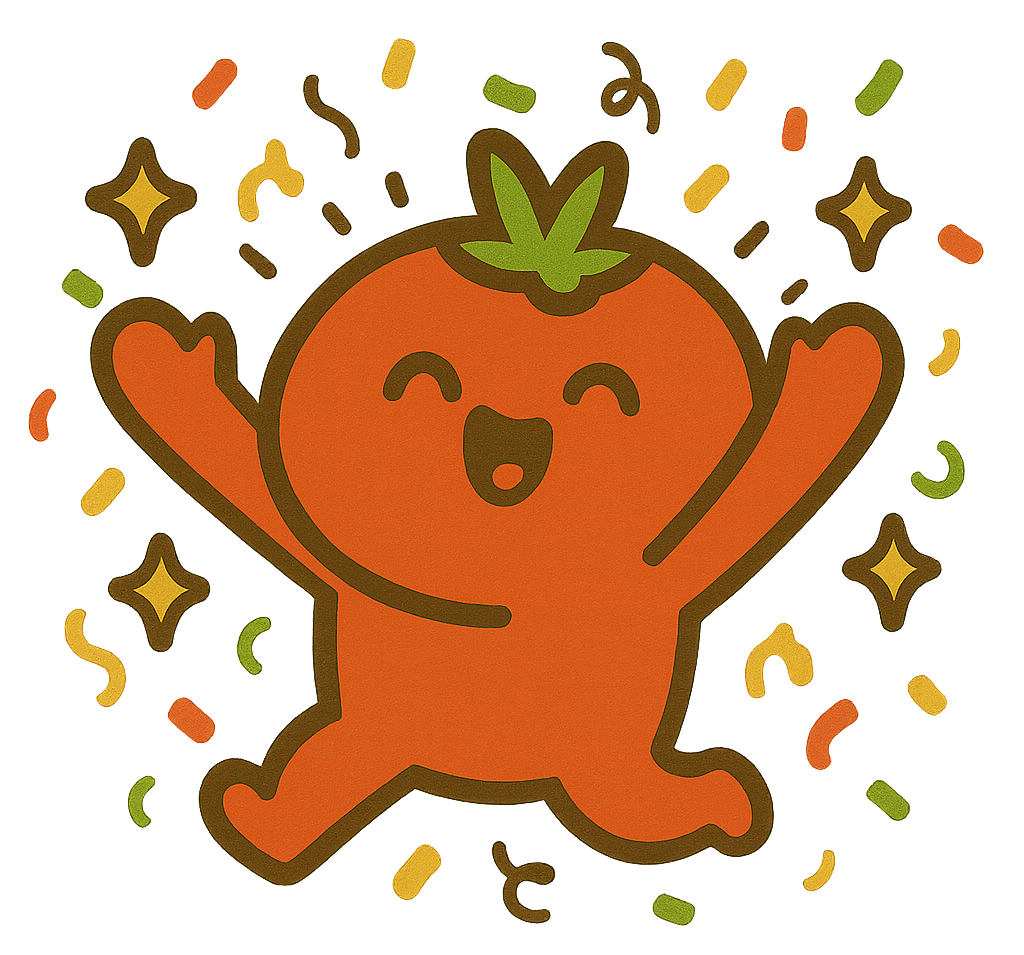
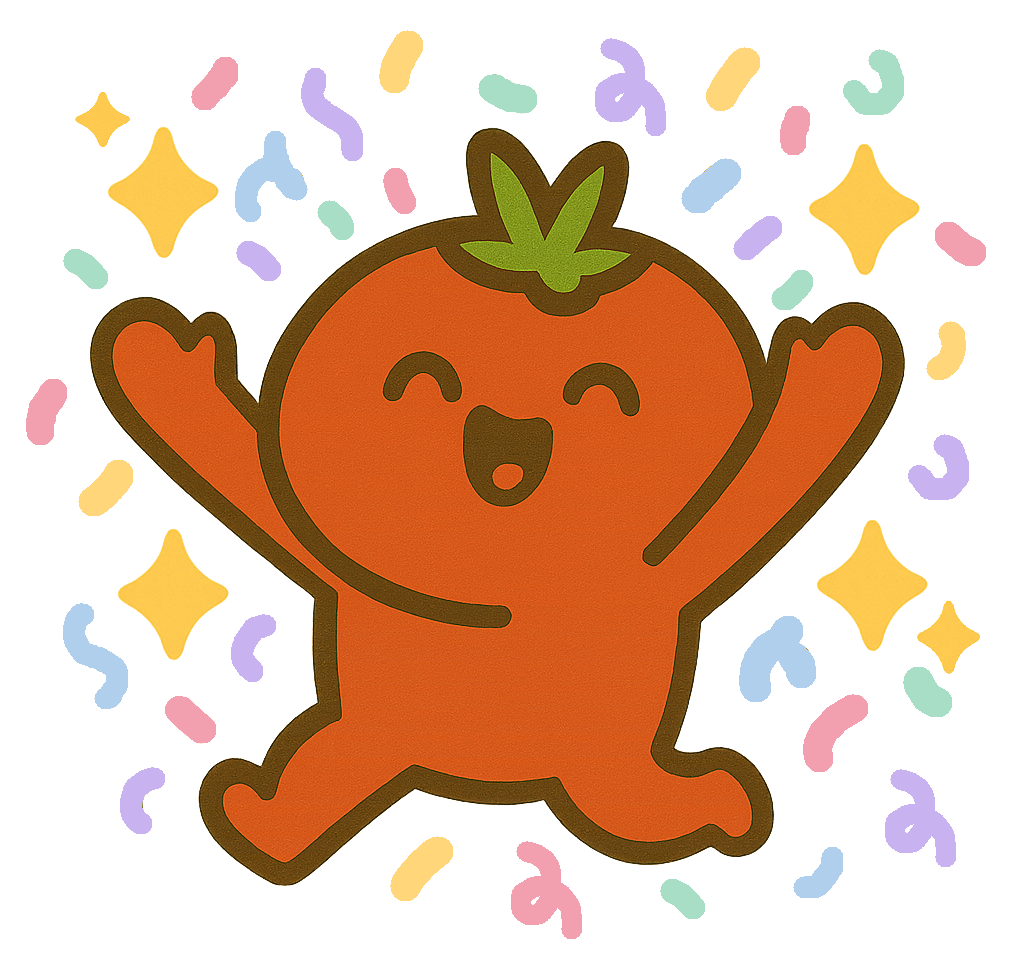
feat: Update confetti appearance and illustration

diff --git a/src/components/Confetti.tsx b/src/components/Confetti.tsx
@@ -1,6 +1,6 @@
 import React, { useState } from "react";
 
-const COLORS = ["bg-primary", "bg-secondary", "bg-third", "bg-sparkle"];
+const COLORS = ["bg-confetti-pink", "bg-confetti-purple", "bg-confetti-blue", "bg-confetti-green", "bg-confetti-yellow"];
 
 type GlitterPiece = {
   id: number;
@@ -29,7 +29,7 @@ export const Confetti = () => {
         {glitter.map((glitter, i) => (
           <span
             key={glitter.id}
-            className={`absolute bottom-0 w-2 h-3 animate-confetti ${COLORS[i % COLORS.length]}`}
+            className={`absolute bottom-0 w-2 h-3 rounded-md animate-confetti ${COLORS[i % COLORS.length]}`}
             style={{
               left: `${glitter.left}%`,
               animationDelay: `${glitter.delay}s`,

diff --git a/tailwind.config.js b/tailwind.config.js
@@ -13,6 +13,14 @@ export default {
         third: "var(--color-third)",
         sparkle: "var(--color-sparkle)",
         border: "var(--color-border)",
+
+        confetti: {
+          pink:   "#f29fb0",
+          purple: "#c8b2f0",
+          blue:   "#afcfed",
+          green:  "#a9dec6",
+          yellow: "#ffd77a",
+        },
       },
       fontFamily: {
         sans: ["Roboto", "system-ui", "sans-serif"],
@@ -20,4 +28,4 @@ export default {
     },
   },
   plugins: [],
-}
+};
